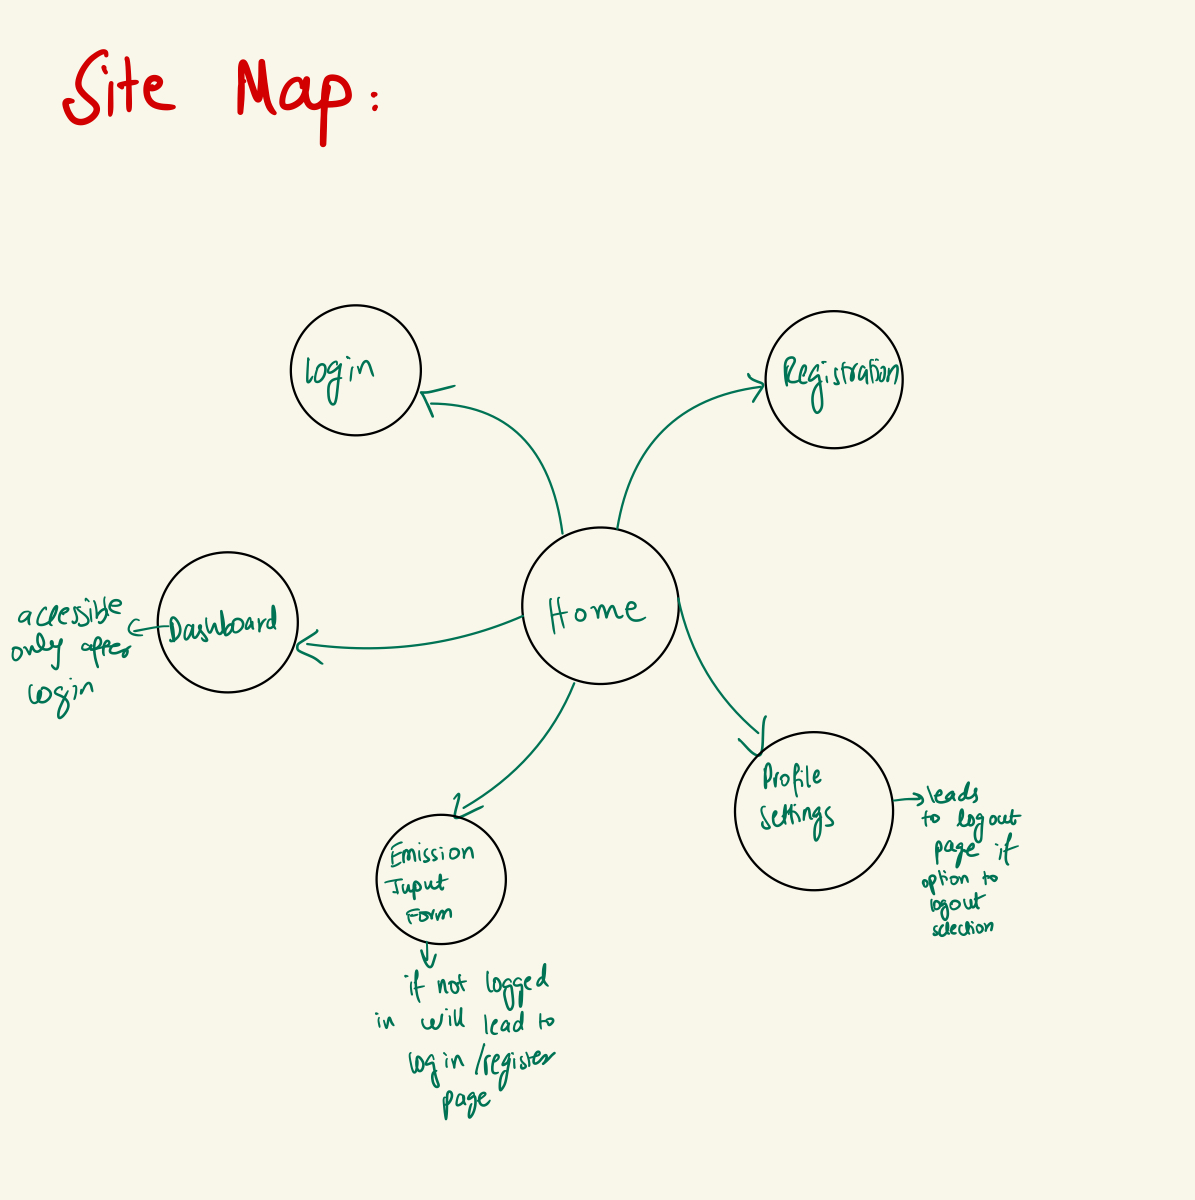
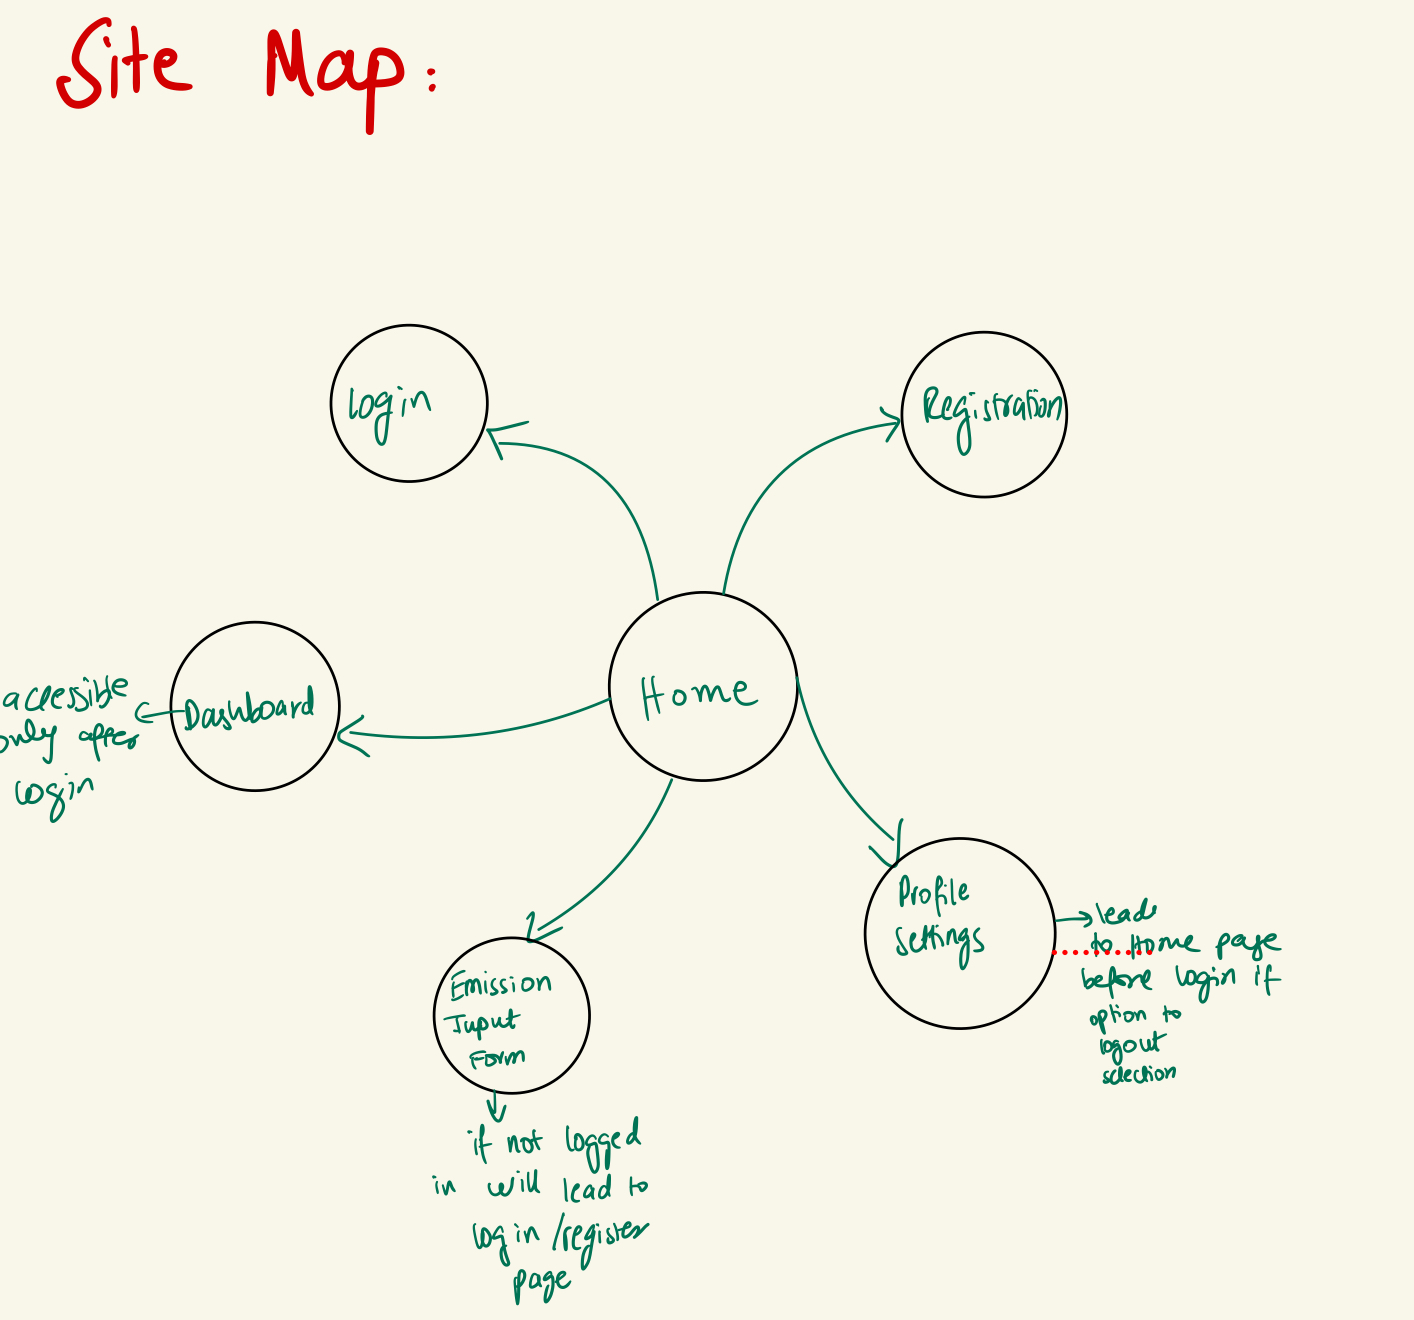
Added wireframes

diff --git a/README.md b/README.md
@@ -1,6 +1,6 @@
 The content below is an example project proposal / requirements document. Replace the text below the lines marked "__TODO__" with details specific to your project. Remove the "TODO" lines.
 
-(__TODO__: your project name)
+(__TODO__: The Carbon Dioxide Emission Calculator)
 
 # Shoppy Shoperson 
 
@@ -8,19 +8,18 @@ The content below is an example project proposal / requirements document. Replac
 
 (__TODO__: a brief one or two paragraph, high-level description of your project)
 
-Remembering what to buy at the grocery store is waaaaay too difficult. Also, shopping for groceries when you're hungry leads to regrettable purchases. Sooo... that's where Shoppy Shoperson comes in!
-
-Shoppy Shoperson is a web app that will allow users to keep track of multiple grocery lists. Users can register and login. Once they're logged in, they can create or view their grocery list. For every list that they have, they can add items to the list or cross off items.
+The Carbon Dioxide Emission Calculator is designed to help individuals and organizations estimate their carbon footprint based on daily activities such as transportation, home energy use, and lifestyle choices. By inputting simple data about their daily routines, users can see how their actions contribute to carbon emissions, enabling them to make informed decisions about reducing their environmental impact.
 
 
 ## Data Model
 
 (__TODO__: a description of your application's data and their relationships to each other) 
 
-The application will store Users, Lists and Items
 
-* users can have multiple lists (via references)
-* each list can have multiple items (by embedding)
+The application will store Users and Emission Entries:
+
+-Users can have multiple Emission Entries (via references)
+-Each Emission Entry corresponds to a single user, but contains detailed records of different emission categories embedded within each entry.
 
 (__TODO__: sample documents)
 
@@ -28,28 +27,51 @@ An Example User:
 
 ```javascript
 {
-  username: "shannonshopper",
-  hash: // a password hash,
-  lists: // an array of references to List documents
+  username: "ecoUser",
+  hash: "hashedPasswordExample",  // This would be a password hash for user authentication
+  emissionEntries: [
+    // An array of references to Emission Entry documents
+  ]
 }
+
 ```
 
 An Example List with Embedded Items:
 
 ```javascript
 {
-  user: // a reference to a User object
-  name: "Breakfast foods",
-  items: [
-    { name: "pancakes", quantity: "9876", checked: false},
-    { name: "ramen", quantity: "2", checked: true},
-  ],
-  createdAt: // timestamp
+  userId:   // Reference to the User object who owns this entry
+  date: "2023-10-10",
+  emissions: {
+    transportation: {
+      amount: 300, 
+      unit: "kg of CO2", 
+      description: "Car and public transportation"
+    },
+    electricity: {
+      amount: 150, 
+      unit: "kg of CO2",
+      description: "Home electricity usage"
+    },
+    waste: {
+      amount: 45, 
+      unit: "kg of CO2",
+      description: "Recyclable and non-recyclable waste"
+    },
+    water: {
+      amount: 80, 
+      unit: "kg of CO2",
+      description: "Water supply and treatment"
+    }
+    // might add more
+  },
+  createdAt:  // Timestamp of when the entry was created
 }
+
 ```
 
 
-## [Link to Commented First Draft Schema](db.mjs) 
+## [Link to Commented First Draft Schema](https://github.com/nyu-csci-ua-0467-001-002-fall-2024/final-project-ns5376/blob/master/db.mjs) 
 
 (__TODO__: create a first draft of your Schemas in db.mjs and link to it)
 
@@ -73,35 +95,36 @@ An Example List with Embedded Items:
 
 (__TODO__: draw out a site map that shows how pages are related to each other)
 
-Here's a [complex example from wikipedia](https://upload.wikimedia.org/wikipedia/commons/2/20/Sitemap_google.jpg), but you can create one without the screenshots, drop shadows, etc. ... just names of pages and where they flow to.
+![Site Map](https://github.com/nyu-csci-ua-0467-001-002-fall-2024/final-project-ns5376/blob/master/documentation/sitemap.jpg)
+
 
 ## User Stories or Use Cases
 
 (__TODO__: write out how your application will be used through [user stories](http://en.wikipedia.org/wiki/User_story#Format) and / or [use cases](https://en.wikipedia.org/wiki/Use_case))
 
-1. as non-registered user, I can register a new account with the site
-2. as a user, I can log in to the site
-3. as a user, I can create a new grocery list
-4. as a user, I can view all of the grocery lists I've created in a single list
-5. as a user, I can add items to an existing grocery list
-6. as a user, I can cross off items in an existing grocery list
+-As a new visitor, I want to understand what the application does, so that I can decide if I want to use it.
+-As a new user, I want to easily register for an account, so that I can securely store and track my carbon emission data.
+-As a user, I want to log in to my account, so that I can access my personal emission data.
+-As a user, I want to input data regarding my daily activities, so that I can calculate my carbon emissions for those activities.
+-As a user, I want to view a summary of my emissions over different periods (daily, weekly, monthly), so that I can understand my emission trends.
+-As a user, I want to modify or delete previously entered emission data, so that I can correct mistakes and keep my data accurate.
+-As a user, I want to be able to change my account settings, so that I can update my personal information or password.
+-As a user, I want to log out of the application, so that I can ensure no one else has access to my data on my device.
+-As an administrator, I want to see statistics about user engagement and data entries, so that I can gauge the success of the application.
 
 ## Research Topics
 
 (__TODO__: the research topics that you're planning on working on along with their point values... and the total points of research topics listed)
 
-* (5 points) Integrate user authentication
-    * I'm going to be using passport for user authentication
-    * And account has been made for testing; I'll email you the password
-    * see <code>cs.nyu.edu/~jversoza/ait-final/register</code> for register page
-    * see <code>cs.nyu.edu/~jversoza/ait-final/login</code> for login page
-* (4 points) Perform client side form validation using a JavaScript library
-    * see <code>cs.nyu.edu/~jversoza/ait-final/my-form</code>
-    * if you put in a number that's greater than 5, an error message will appear in the dom
-* (5 points) vue.js
-    * used vue.js as the frontend framework; it's a challenging library to learn, so I've assigned it 5 points
-
-10 points total out of 8 required points (___TODO__: addtional points will __not__ count for extra credit)
+(2 points) Integration of Climatiq API
+Enables accurate emissions data retrieval based on user activities for precise carbon calculations.
+(3 points) Unit Testing with JavaScript (Jest)
+Ensures core functions, especially emission calculations, work reliably under various scenarios.
+(3 points) User Authentication Using OAuth (Google, Facebook, Apple)
+Allows secure and convenient login options for users via popular social accounts.
+(2 points) Integrate ESLint into Your Workflow
+Maintains code quality, making your application more maintainable and secure, especially important when handling sensitive information like tokens and API data.
+Total Points: 10 Points
 
 
 ## [Link to Initial Main Project File](app.mjs) 
